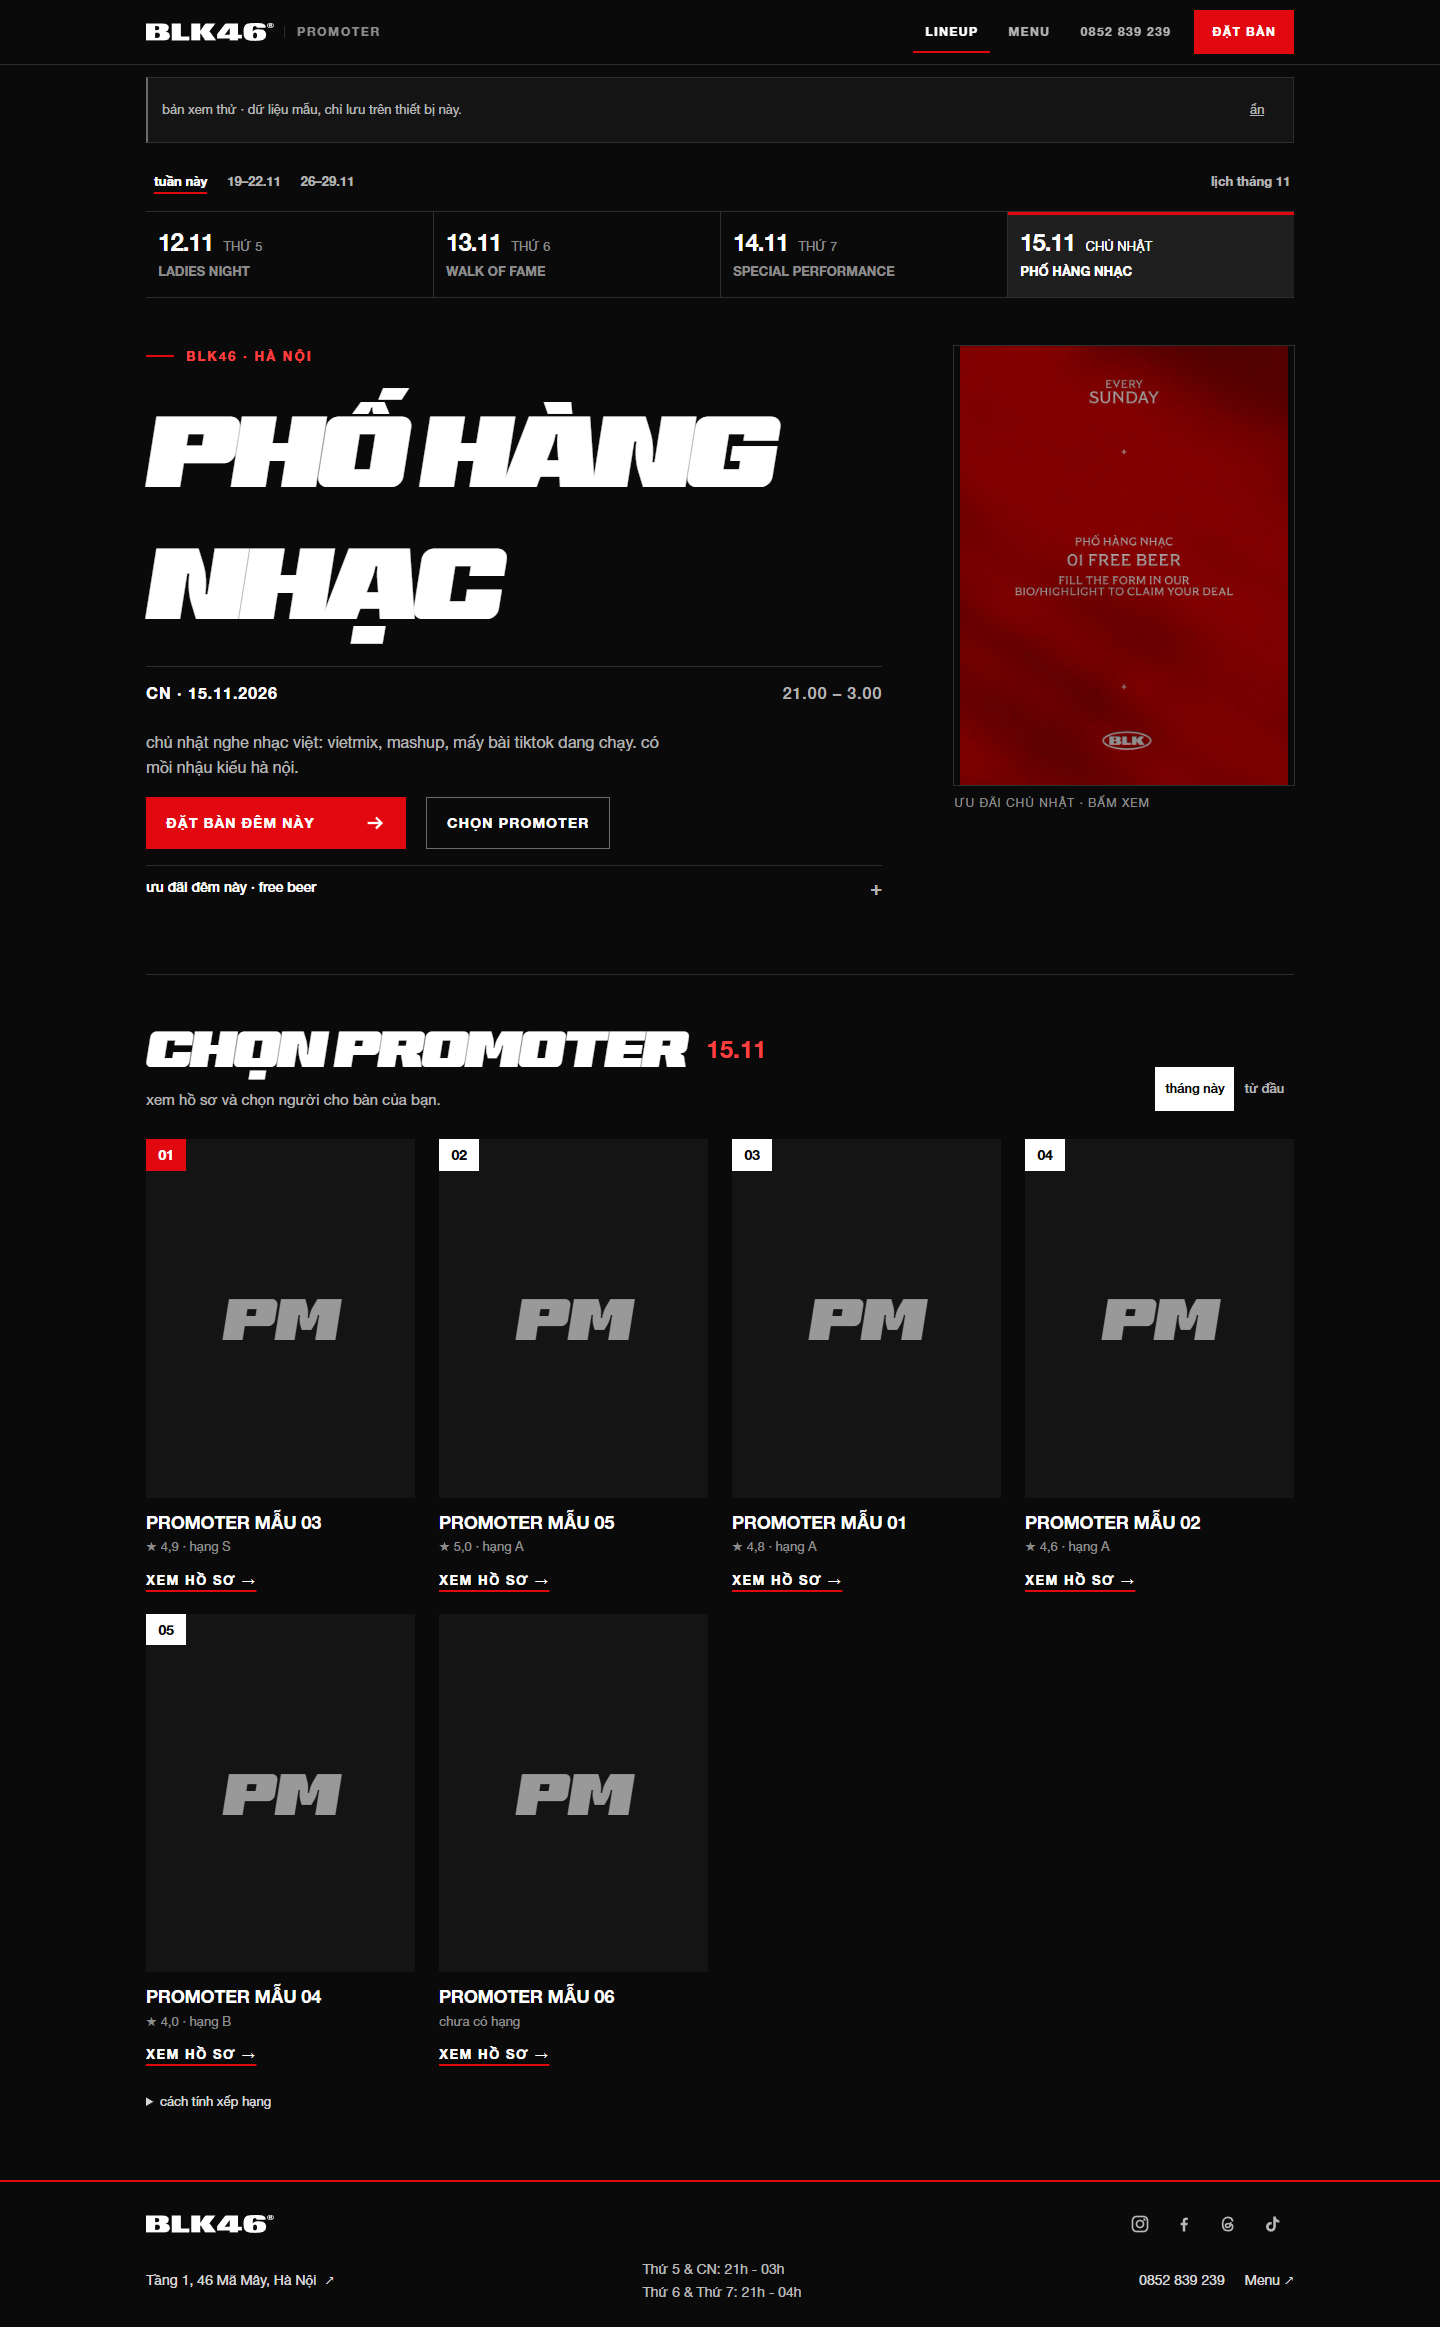
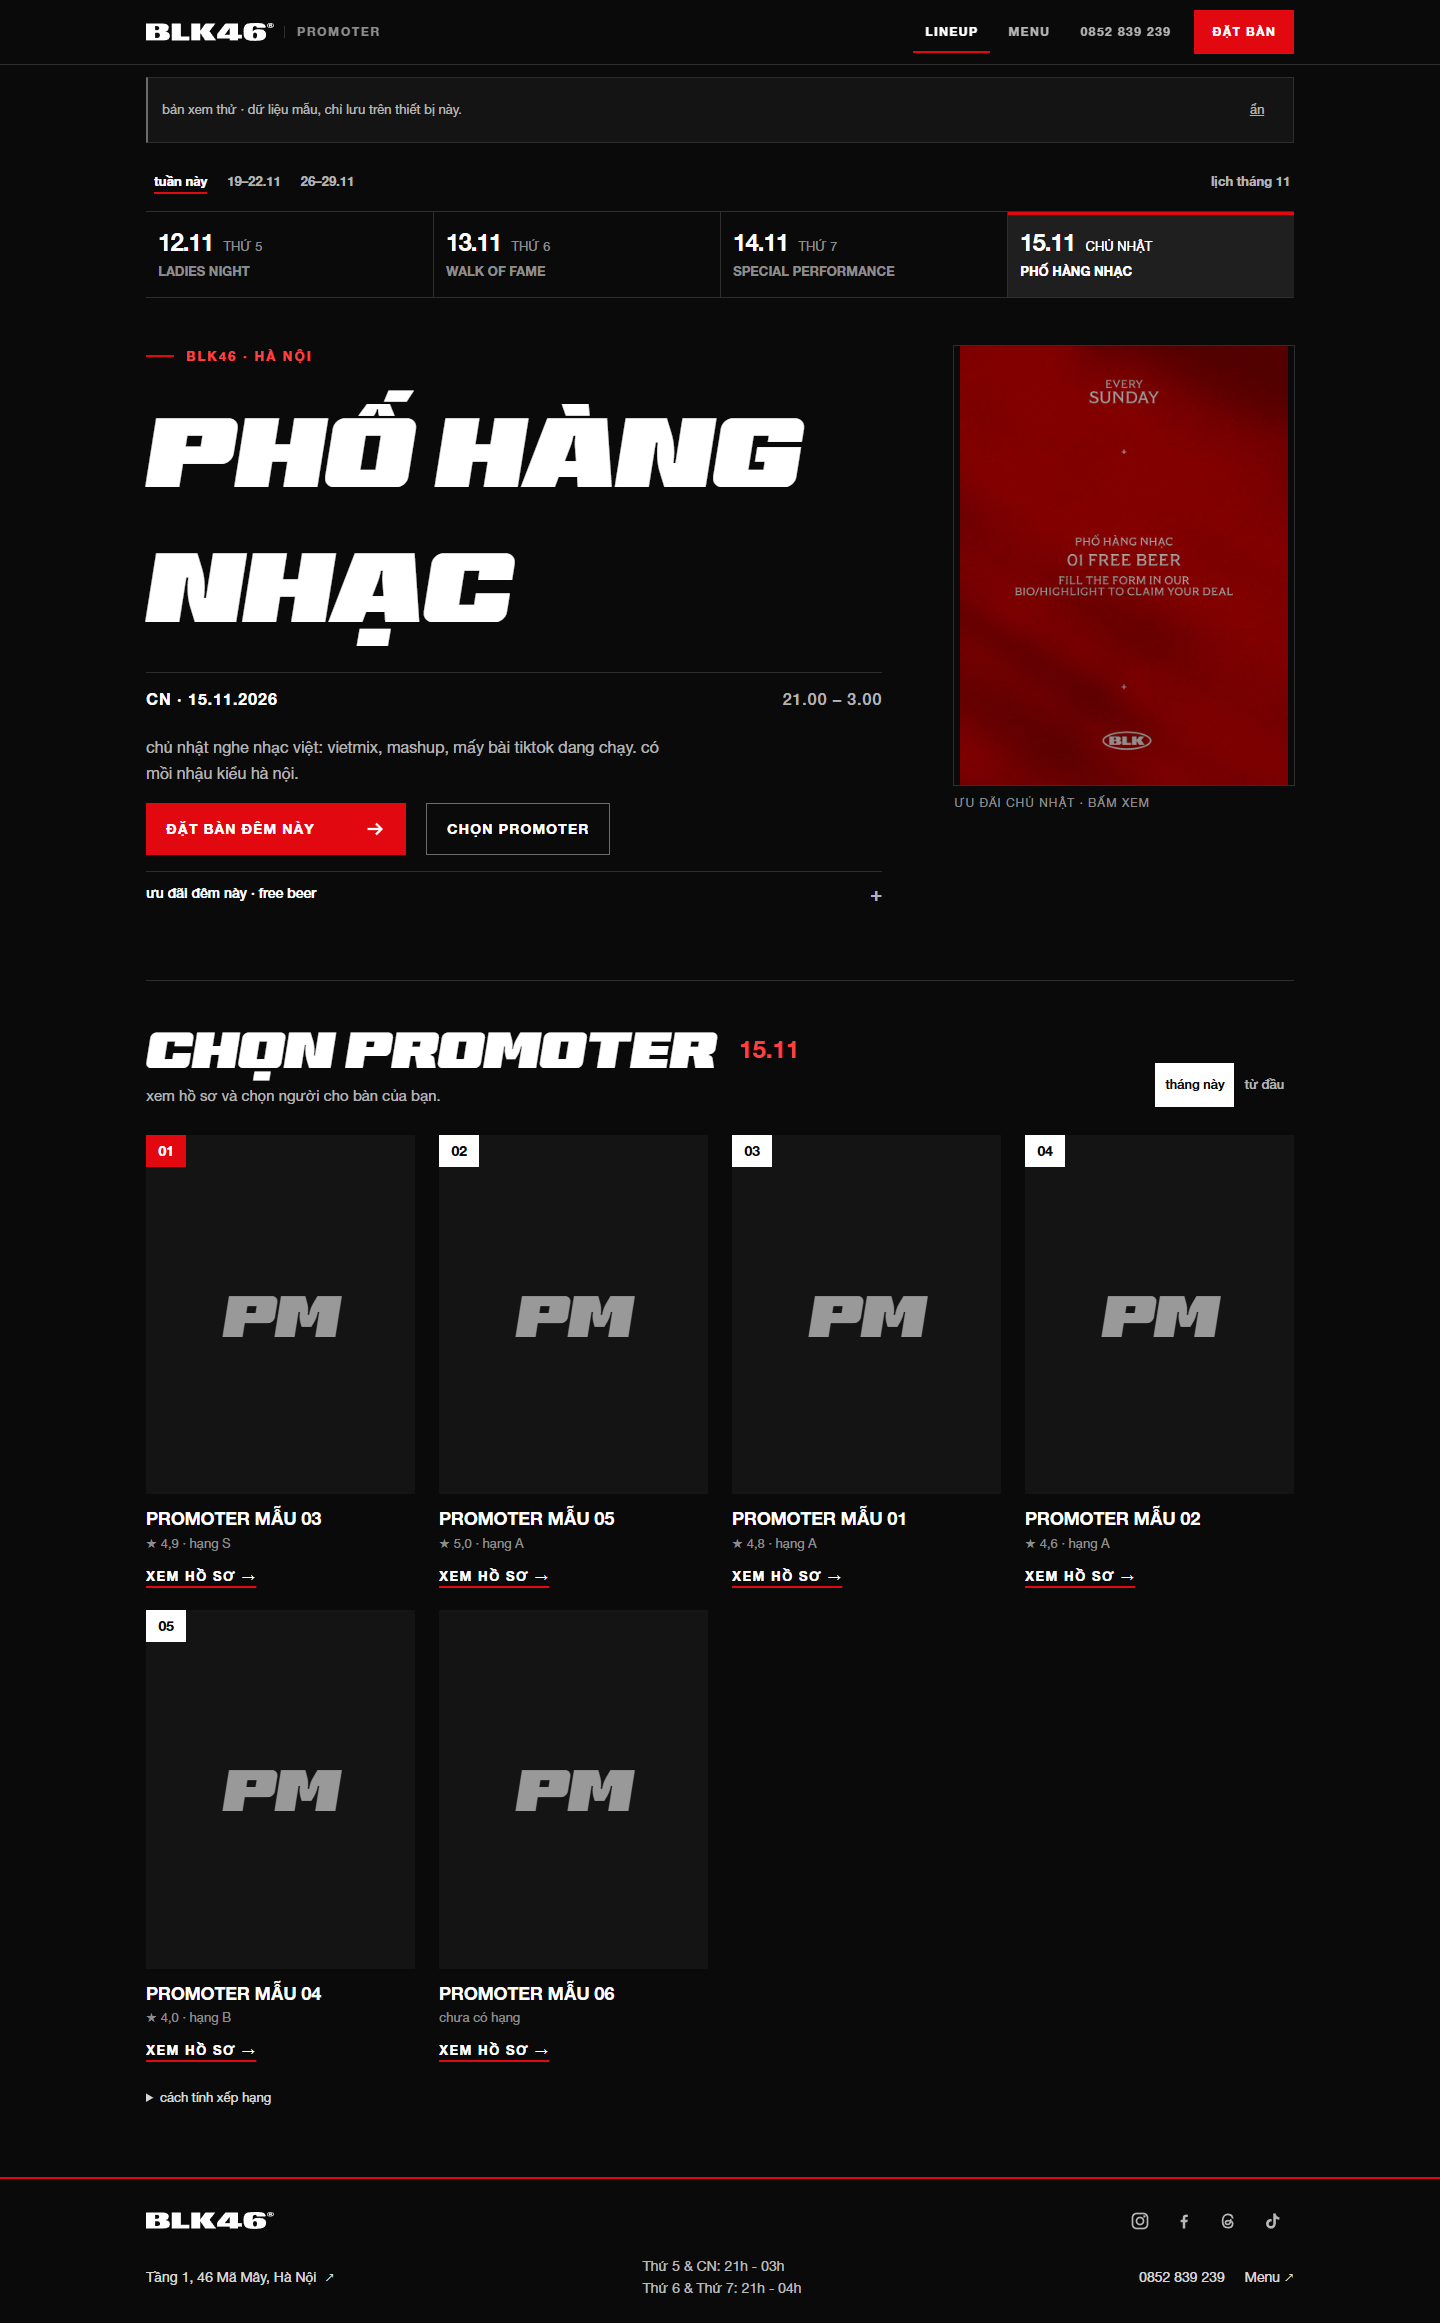
fix: open title tracking, tighten title leading
Display titles in BT Brik VN were set at -0.035em, so the heavy oblique
caps touched, and their fixed line-height (1.08 to 1.28) left a gap of
about 0.4em between lines.

- Tracking: --title-track 0.02em on the hero, roster, sheet, ticket and
  reviews titles; flyFit counts it when sizing the hero.
- Leading: titleLead measures each title's real ink (cap or mark
  ascent plus dot-below descent) and adds a 0.14em gap, set as --lead.
  Plain caps get about 0.83, ĐÊM HỘI ÂM NHẠC about 1.21, and stacked
  marks grow only when the text has them.
- Typography QA now checks a title's own ink against its line box and
  adds a wrapped worst-case stacked-mark title at 390px.

diff --git a/public/index.html b/public/index.html
@@ -1189,6 +1189,11 @@ body.paper .tk .tk-row p{padding-inline:16px}
 body.paper #bErr:not(:empty){padding:12px 14px;background:var(--surface);border-left:3px solid var(--accent);color:var(--paper)}
 body.paper .tk label.f input[aria-invalid="true"]{border-color:var(--acid)}
 section.done .hold-note{color:var(--paper);border-left:3px solid var(--accent);padding-left:12px}
+/* display titles: open tracking so the heavy oblique caps never touch; leading comes from each title's measured ink (titleLead sets --lead) */
+:root{--title-track:.02em}
+.fly-dj,body.v-lineup .fly-dj,body.v-lineup .ros-head h2,.sdlg .sheet-name,h1.tk-name,body.paper .prv-head h2{letter-spacing:var(--title-track);line-height:var(--lead,1.08)}
+.fly-dj,body.v-lineup .fly-dj{line-height:var(--lead,.83)}
+.fly-dj.vn{line-height:var(--lead,1.21)}
 </style>
 </head>
 <body class="v-lineup">
@@ -1514,7 +1519,7 @@ function promoReviewsHTML(i){
   const item=x=>`<article class="prv-item"><div class="top"><span class="stars" aria-label="${x.stars} sao">${starStr(x.stars)}</span><span class="muted">${ago(x.createdAt||Date.now())}</span></div>
     ${x.comment?`<p>${esc(x.comment)}</p>`:""}
     ${(x.tags||[]).length?`<div class="tags">${x.tags.map(t=>`<span class="tag">${esc(t)}</span>`).join("")}</div>`:""}</article>`;
-  return `<div class="prv-head"><h2>Khách trước<br>nói gì <small>${list.length} đánh giá</small></h2></div>
+  return `<div class="prv-head"><h2 ${leadAttr("Khách trước nói gì")}>Khách trước<br>nói gì <small>${list.length} đánh giá</small></h2></div>
     ${tops.length?`<div class="tags prv-tags" aria-label="tag khách chọn nhiều nhất">${tops.map(([t,n])=>`<span class="tag">${esc(t)}<b>${n}</b></span>`).join("")}</div>`:""}
     ${list.length?`<div class="prv-list">${list.slice(0,lim).map(item).join("")}</div>`:`<div class="empty" style="margin-top:14px"><b>${S.loaded.reviews?`${esc(i.stageName)} chưa có đánh giá nào.`:"đang tải…"}</b></div>`}
     ${lim<PRV_MAX&&list.length>lim?`<div style="margin-top:14px"><button class="ghostbtn" id="prvMore">xem thêm (${Math.min(PRV_STEP,list.length-lim,PRV_MAX-lim)})</button></div>`:""}`;
@@ -1600,14 +1605,27 @@ const flyVN=t=>/[^\x00-\x7f]/.test(t);
 const titleMeasure=document.createElement("canvas").getContext("2d");
 /* Measure the actual display face, including italic overhang and Vietnamese letters. */
 function flyFit(text){
-  const words=text.trim().toUpperCase().split(/\s+/),style=getComputedStyle(document.documentElement);
+  const words=text.trim().toUpperCase().split(/\s+/),style=getComputedStyle(document.documentElement),track=parseFloat(style.getPropertyValue("--title-track"))||0;
   titleMeasure.font=`oblique 700 100px ${style.getPropertyValue("--brand-display").trim()}`;
-  const width=value=>{const m=titleMeasure.measureText(value);return Math.max(m.width,m.actualBoundingBoxLeft+m.actualBoundingBoxRight)/100};
+  const width=value=>{const m=titleMeasure.measureText(value);return Math.max(m.width,m.actualBoundingBoxLeft+m.actualBoundingBoxRight)/100+[...value].length*track};
   let best=width(words.join(" "));
   for(let i=1;i<words.length;i++)best=Math.min(best,Math.max(width(words.slice(0,i).join(" ")),width(words.slice(i).join(" "))));
   return Math.max(1.6,+(best*1.05).toFixed(3));
 }
-function paintDj(){const el=document.getElementById("flyDj");if(!el)return;const n=nightInfo(),h=flyHead(n,flySel(n));el.textContent=h.head;el.style.setProperty("--f",flyFit(h.head));el.classList.toggle("vn",flyVN(h.head));const p=document.getElementById("flyPre");if(p)p.textContent=h.pre}
+/* Title leading from the title's own ink: tallest mark above the caps plus deepest mark below, plus a fixed gap.
+   Plain caps stack tight; Vietnamese marks on neighbouring lines never touch. */
+const TITLE_GAP=.14;
+function titleLead(text){
+  titleMeasure.font=`oblique 700 100px ${getComputedStyle(document.documentElement).getPropertyValue("--brand-display").trim()}`;
+  const cap=titleMeasure.measureText("H").actualBoundingBoxAscent,m=titleMeasure.measureText(String(text).toUpperCase());
+  return +((Math.max(cap,m.actualBoundingBoxAscent)+Math.max(0,m.actualBoundingBoxDescent))/100+TITLE_GAP).toFixed(3);
+}
+const leadAttr=text=>`style="--lead:${titleLead(text)}"`;
+/* Fonts can finish after the first render: re-measure every title on screen. */
+function leadTitles(){document.querySelectorAll(".fly-dj,.sheet-name,.tk-name,#rosterTitle,.prv-head h2").forEach(el=>el.style.setProperty("--lead",titleLead(el.textContent)))}
+document.fonts.ready.then(leadTitles);
+document.fonts.addEventListener("loadingdone",leadTitles);
+function paintDj(){const el=document.getElementById("flyDj");if(!el)return;const n=nightInfo(),h=flyHead(n,flySel(n));el.textContent=h.head;el.style.setProperty("--f",flyFit(h.head));el.style.setProperty("--lead",titleLead(h.head));el.classList.toggle("vn",flyVN(h.head));const p=document.getElementById("flyPre");if(p)p.textContent=h.pre}
 document.fonts.ready.then(paintDj);
 document.fonts.addEventListener("loadingdone",paintDj);
 const SIL=`<svg viewBox="0 0 100 120" aria-hidden="true"><circle cx="50" cy="38" r="20" fill="currentColor"/><path d="M10 120c2-32 19-48 40-48s38 16 40 48z" fill="currentColor"/></svg>`;
@@ -1631,7 +1649,7 @@ function flyHTML(){
       :`<div class="fly-art poster"><div class="pic" aria-hidden="true"><img src="brand/blk-ring.svg" alt=""><p>HIP-HOP<br>HOUSE<br>AFRO</p></div></div>`;
   return `<div class="fly-intro">
       <p class="fly-pre" id="flyPre">${esc(h.pre)}</p>
-      <h1 class="fly-dj${flyVN(dj)?" vn":""}" id="flyDj" style="--f:${flyFit(dj)}">${esc(dj)}</h1>
+      <h1 class="fly-dj${flyVN(dj)?" vn":""}" id="flyDj" style="--f:${flyFit(dj)};--lead:${titleLead(dj)}">${esc(dj)}</h1>
       <div class="fly-row"><p>${WD_FLY[dw]} · ${ddmm(sel)}<span class="yr">.${sel.slice(0,4)}</span></p><p>${esc(hoursOf(dw))}</p></div>
     </div><div class="fly-detail">
       ${evLine}
@@ -1716,7 +1734,7 @@ function sheetHTML(r,ghost){
     <div class="sheet-info">
       ${ghost?"":`<button type="button" class="sheet-back" data-x>← xem người khác</button>`}
       <p class="sheet-eb">${eb}</p>
-      <h3 class="sheet-name">${esc(i.stageName)}</h3>
+      <h3 class="sheet-name" ${leadAttr(i.stageName)}>${esc(i.stageName)}</h3>
       <dl class="sheet-dl">${dl.map(([k,v])=>`<div><dt>${k}</dt><dd>${v}</dd></div>`).join("")}</dl>
       ${ghost?"":full?`<p class="sheet-load">${esc(i.stageName)} đã kín bàn ngày ${fmtDate(date)}.</p><a class="sheet-cta" href="#book-${esc(i.id)}" data-ev="${date}" data-change-date>CHỌN NGÀY KHÁC&nbsp;→</a>`
         :`<p class="sheet-load">ngày ${fmtDate(date)} còn ${LOAD_MAX-ld} chỗ đặt trước</p><a class="sheet-cta" href="#book-${esc(i.id)}" data-ev="${date}">ĐẶT BÀN&nbsp;→<small>cùng ${esc(i.stageName)}</small></a>`}
@@ -1782,7 +1800,7 @@ function renderLineup(){
   <section class="fly" id="fly" aria-label="đêm đang chọn">${flyHTML()}</section>
   <section class="ros" id="roster" aria-label="chọn promoter">
     <div class="ros-head">
-      <div><h2 id="rosterTitle">Chọn promoter <span class="ros-date">${fmtDate(tdy)}</span></h2><p>xem hồ sơ và chọn người cho bàn của bạn.</p></div>
+      <div><h2 id="rosterTitle" ${leadAttr("Chọn promoter")}>Chọn promoter <span class="ros-date">${fmtDate(tdy)}</span></h2><p>xem hồ sơ và chọn người cho bàn của bạn.</p></div>
       <div class="ros-tools"><div class="ros-per" role="group" aria-label="khoảng thời gian">
         <button type="button" class="sq" id="pMonth" aria-pressed="${S.period==="month"}">tháng này</button>
         <button type="button" class="sq" id="pAll" aria-pressed="${S.period==="all"}">từ đầu</button>
@@ -2075,7 +2093,7 @@ function renderVoucher(dow){
   const chips=(cls,list,cur,label)=>`<div class="tags" role="radiogroup" aria-label="${label}">${list.map(([v,t],k)=>`<button type="button" class="chip bsal ${cls}" role="radio" data-v="${v}" aria-checked="${cur===v}" tabindex="${cur===v||(!list.some(([w])=>w===cur)&&k===0)?0:-1}">${t}</button>`).join("")}</div>`;
   app.innerHTML=`${banner()}<a class="back" href="#lineup">← về trang chính</a>
   <div class="book-wrap solo"><section class="tk vc" aria-label="nhận voucher ${esc(p.tag.toLowerCase())}">
-    <div class="tk-head"><div class="tk-who"><p class="tk-pre">NHẬN VOUCHER</p><h1 class="tk-name">${esc(p.tag)}</h1><p class="tk-meta">${esc(p.line)}</p></div></div>
+    <div class="tk-head"><div class="tk-who"><p class="tk-pre">NHẬN VOUCHER</p><h1 class="tk-name" ${leadAttr(p.tag)}>${esc(p.tag)}</h1><p class="tk-meta">${esc(p.line)}</p></div></div>
     <div class="tk-row"><p>MỖI ${esc(DAY_FULL[dow])}</p><p>TỚI TRƯỚC ${esc(before)}</p><p>TẦNG 1, 46 MÃ MÂY</p></div>
     <form class="idol" id="vcForm">
       <div class="fields vf">
@@ -2138,9 +2156,9 @@ function renderBook(idolId){
   const tkMeta=br&&br.n?`★ ${fmt1(br.avg)} · ${br.n} lượt · hạng ${grade(br)}`:"chưa có lượt chấm";
   app.innerHTML=`${banner()}<a class="back back-swap" href="#lineup">${anyone?"← về trang chính":"← đổi promoter"}</a>
   <div class="book-wrap${anyone?" solo":""}"><section class="tk" aria-label="${anyone?"đặt bàn ở blk46":`đặt bàn cùng ${esc(i.stageName)}`}">
-    ${anyone?`<div class="tk-head"><div class="tk-who"><p class="tk-pre">ĐẶT BÀN Ở</p><h1 class="tk-name">BLK46</h1><p class="tk-meta">quán xếp promoter takecare bàn của bạn.</p></div></div>`
+    ${anyone?`<div class="tk-head"><div class="tk-who"><p class="tk-pre">ĐẶT BÀN Ở</p><h1 class="tk-name" ${leadAttr("BLK46")}>BLK46</h1><p class="tk-meta">quán xếp promoter takecare bàn của bạn.</p></div></div>`
     :`<div class="tk-head"><div class="tk-face"><span class="tk-ini" aria-hidden="true">${esc(initials(i.stageName))}</span>${coverId(i)?`<img src="${esc(coverId(i))}" alt="" onerror="this.remove()">`:""}</div>
-      <div class="tk-who"><p class="tk-pre">ĐẶT BÀN CÙNG</p><h1 class="tk-name">${esc(i.stageName)}</h1><p class="tk-meta">${tkMeta}</p></div></div>`}
+      <div class="tk-who"><p class="tk-pre">ĐẶT BÀN CÙNG</p><h1 class="tk-name" ${leadAttr(i.stageName)}>${esc(i.stageName)}</h1><p class="tk-meta">${tkMeta}</p></div></div>`}
     <div class="tk-row"><p id="tkDay"></p><p id="tkTime"></p><p>TẦNG 1, 46 MÃ MÂY</p></div>
     <p class="tk-ev" id="tkEv" hidden></p>
     ${B.fromVoucher?`<div class="tk-vc" role="status"><p><b>ĐÃ GHI VOUCHER ${esc(B.fromVoucher.tag)}</b> cho ${esc(capName(B.fromVoucher.name))}. thông tin bên form voucher đã điền sẵn, chỉ cần điền nốt phần còn trống để giữ bàn.</p><a href="#voucher-${B.fromVoucher.dow}">không cần giữ bàn</a></div>`:""}
